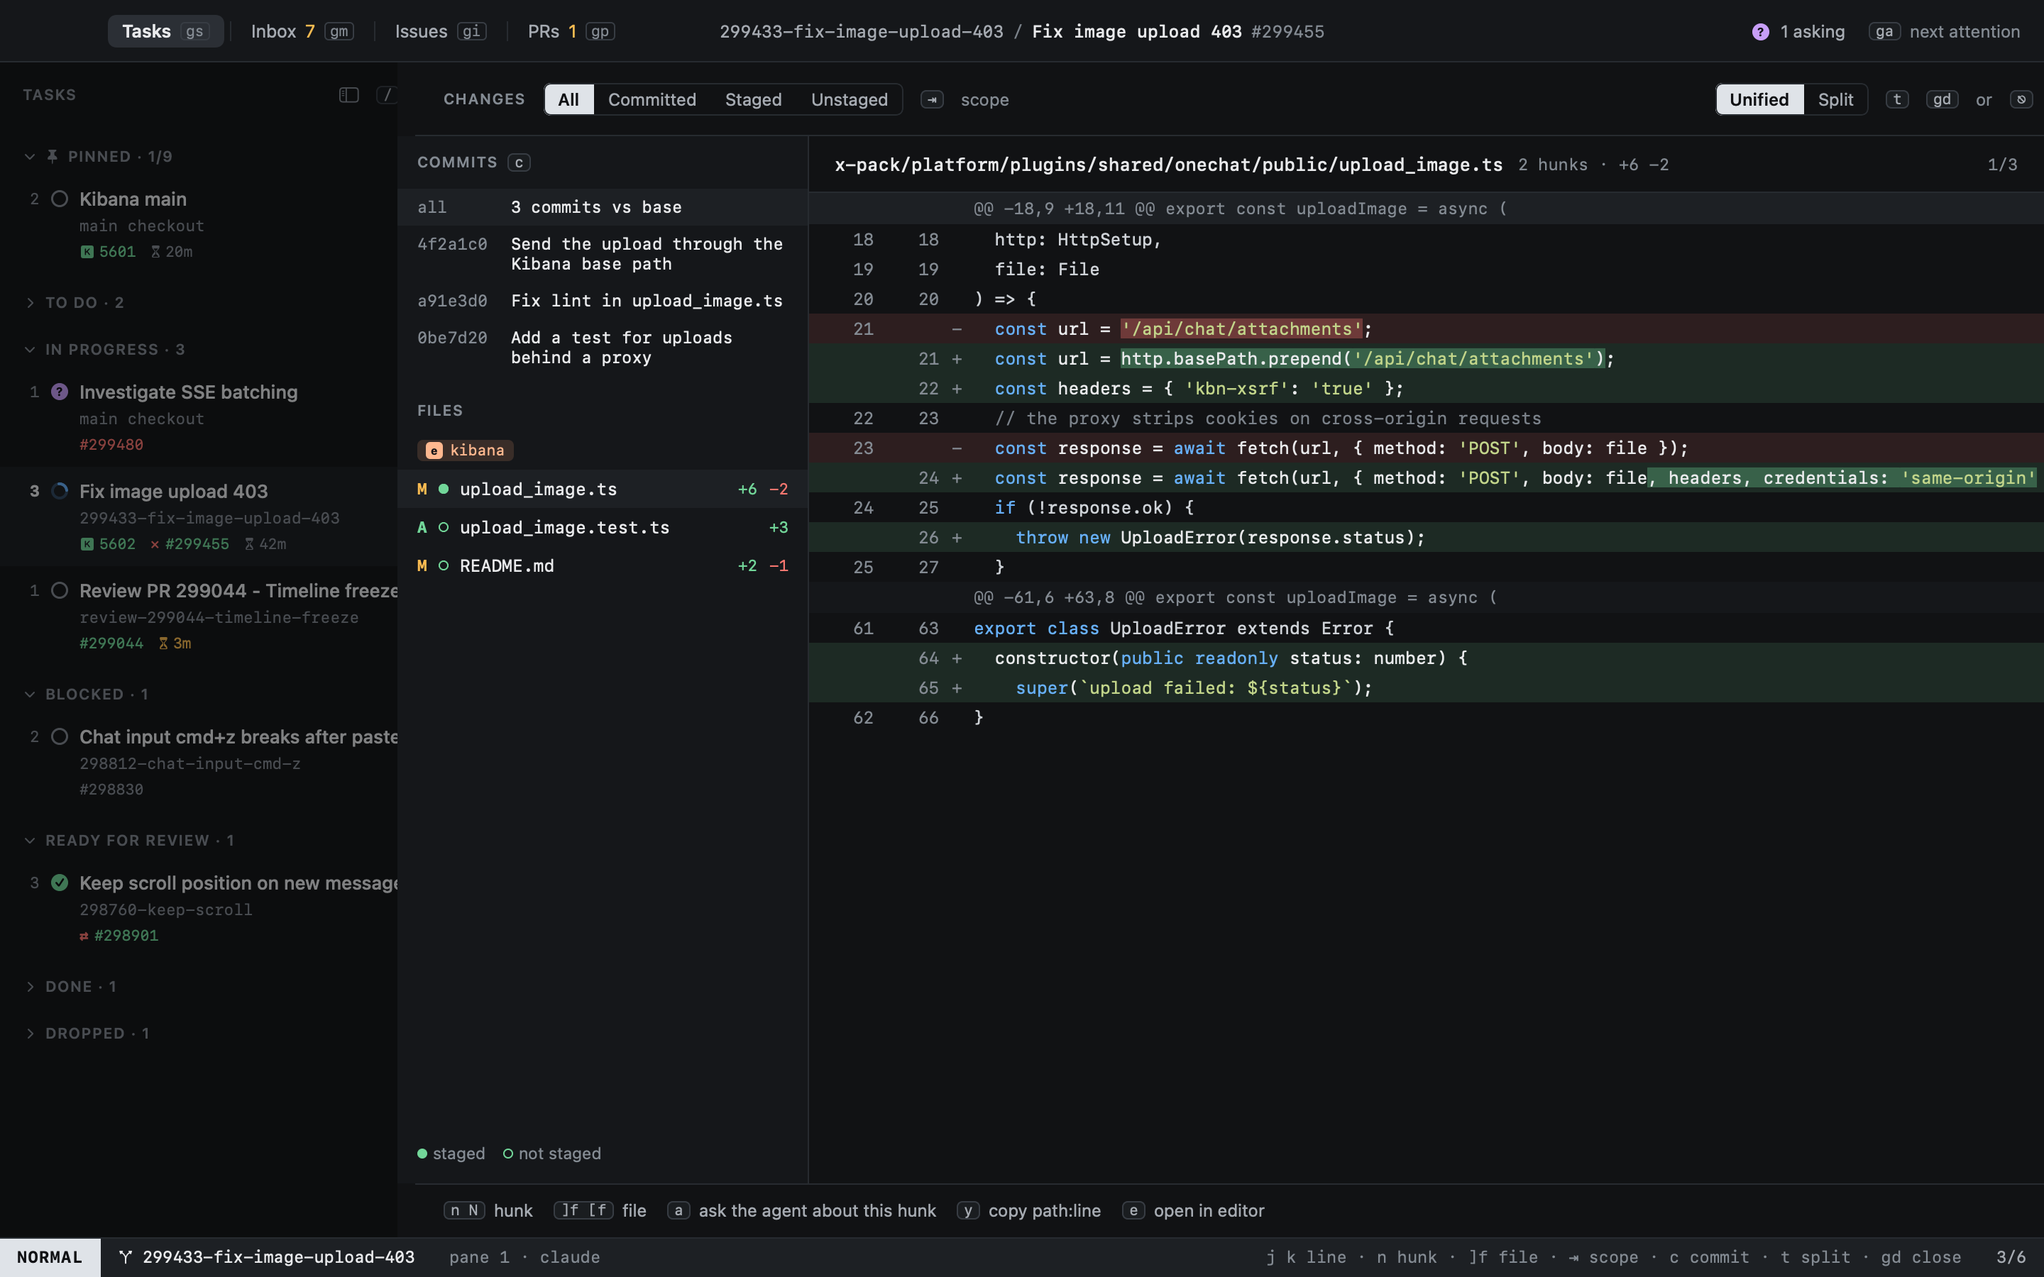
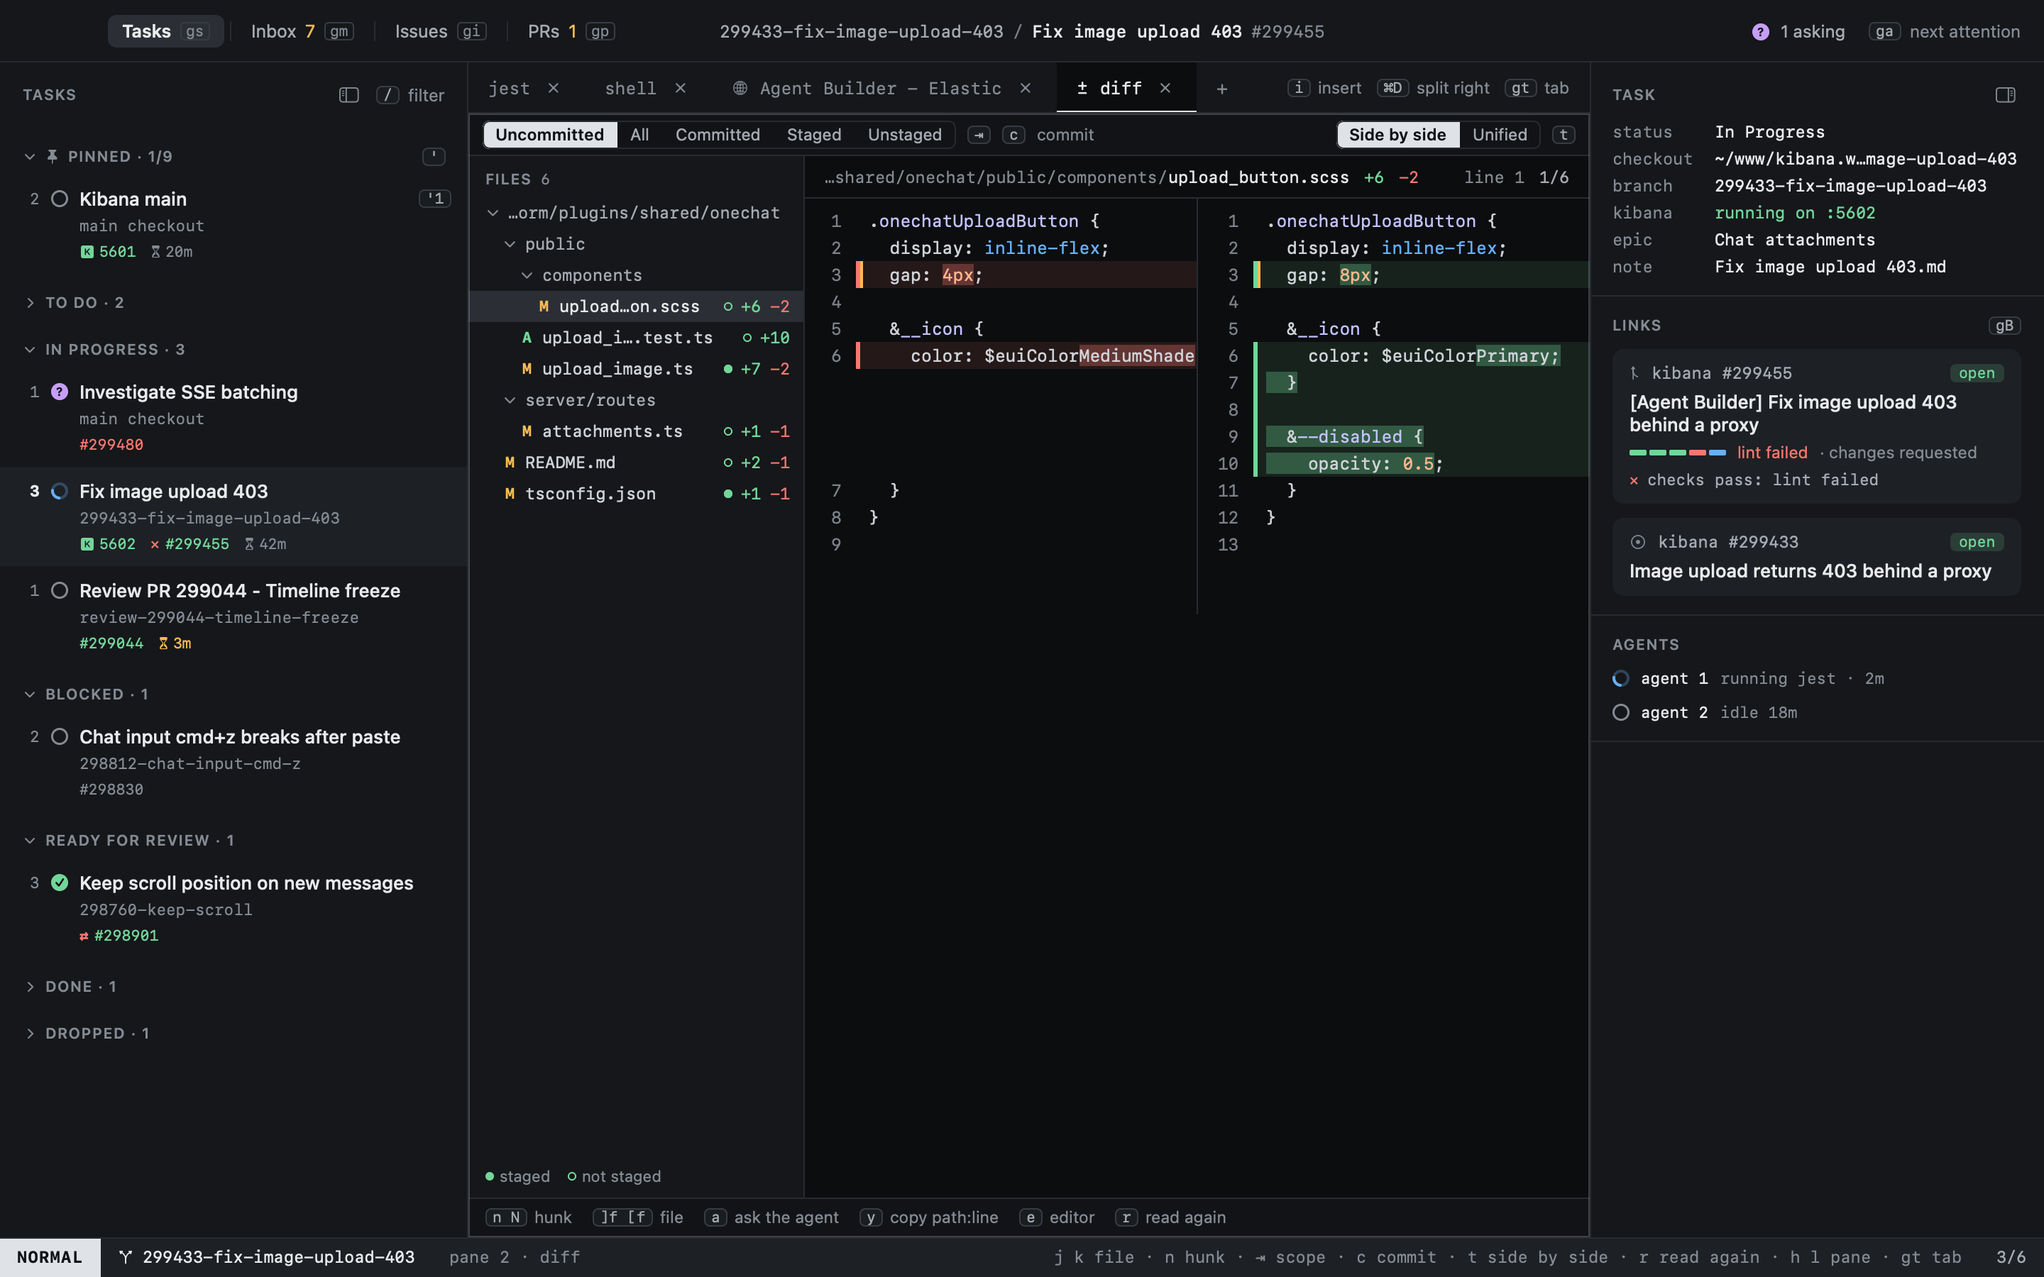
Diff tab, part 3: docs/diff rewritten for the tab (scopes, the file tree, side by side and unified, acting on a line), gd in the keyboard pages and the landing page, the diff shots regenerated

diff --git a/docs/heed-landing.html b/docs/heed-landing.html
@@ -257,12 +257,12 @@ a:focus-visible,summary:focus-visible,.btn:focus-visible{outline:2px solid var(-
 
  <section class="feat rev" id="f2"><div class="ft"><div class="eb mono">New task</div><h2>A title. That is all.</h2><p>Press <kbd>o</kbd> and type a title. heed starts claude on it in the Kibana checkout, in a real terminal, with its own Claude session.</p><ul><li>Pick issues or notifications and press <kbd>s</kbd>: the task starts with them as its first prompt.</li><li>Open more agent tabs in the same task; each one reports and resumes on its own.</li><li>Optional: a shell split beside the agent.</li></ul></div><div class="fm"><figure class="win "><div class="wb"><i style="background:#ff5f57"></i><i style="background:#febc2e"></i><i style="background:#28c840"></i><span>heed</span></div><img src="images/shots/landing/new-task.png" alt="The Start work dialog guessing repo, worktree name and agent." loading="lazy"></figure></div></section>
  <section class="feat" id="f3"><div class="ft"><div class="eb mono">Agents</div><h2>Claude, wired up.</h2><p>Claude reports every state through hooks. Any other command you can type runs too, without a state.</p><ul><li>Profiles, plan and resume arguments, and how the prompt gets delivered.</li><li>Hooks are passed per run: your own Claude config is never edited.</li></ul><div class="ags" style="margin-top:18px"><span class="ag">claude</span><span class="ag">your own command</span></div></div><div class="fm"><figure class="win "><div class="wb"><i style="background:#ff5f57"></i><i style="background:#febc2e"></i><i style="background:#28c840"></i><span>heed</span></div><img src="images/shots/landing/agents.png" alt="Per-agent settings, here for claude." loading="lazy"></figure></div></section>
- <section class="keys" id="f4"><div class="kh"><div class="eb mono">Keyboard first</div><h2>Built like an editor, not an app with shortcuts.</h2><p>NORMAL mode drives heed. INSERT hands every key to the terminal. Counts work, relative line numbers show how far you are jumping, <kbd>f</kbd> puts a hint on everything and <kbd>:</kbd> runs commands. If you have ever <span class="mono">:wq</span>’d your way out of something, you are home.</p></div><div class="modes" role="list"><div class="md" style="--i:0"><b class="mono">NORMAL</b><small>keys drive the app</small></div><div class="md" style="--i:1"><b class="mono">INSERT</b><small>every key goes to the agent</small></div><div class="md" style="--i:2"><b class="mono">VISUAL</b><small>select many, then act</small></div><div class="md" style="--i:3"><b class="mono">COMMAND</b><small>&#58;start, :pr 2841</small></div><div class="md" style="--i:4"><b class="mono">HINT</b><small>f, then jump anywhere</small></div></div><div class="kcs"><div class="kc"><div class="kcap"><kbd>j</kbd><kbd>k</kbd></div><p>Move through tasks. 3j goes three down.</p></div><div class="kc"><div class="kcap"><kbd>ga</kbd></div><p>Jump to the next agent that needs you.</p></div><div class="kc"><div class="kcap"><kbd>o</kbd></div><p>Start work. Type the task, press enter.</p></div><div class="kc"><div class="kcap"><kbd>gd</kbd></div><p>Diff overlay: committed, staged, unstaged.</p></div><div class="kc"><div class="kcap"><kbd>'1</kbd></div><p>Jump straight to pinned task 1.</p></div><div class="kc"><div class="kcap"><kbd>⌃w</kbd><kbd>v</kbd></div><p>Split the pane right. Vim muscle memory works.</p></div><div class="kc"><div class="kcap"><kbd>f</kbd></div><p>Hint badges on every pane, tab and task.</p></div><div class="kc"><div class="kcap"><kbd>:</kbd></div><p>Command line: :start, :pr 2841, :help.</p></div><div class="kc"><div class="kcap"><kbd>?</kbd></div><p>Every key and every agent state, in any mode.</p></div></div><div class="sbar"><b>NORMAL</b><span class="mono">3j</span><span class="sp"></span><span>2 blocked · 1 asking</span><kbd>ga</kbd><i class="cr2"></i></div><div class="kshot"><figure class="win "><div class="wb"><i style="background:#ff5f57"></i><i style="background:#febc2e"></i><i style="background:#28c840"></i><span>heed</span></div><img src="images/shots/landing/keys.png" alt="The help overlay listing modes, keys and agent states." loading="lazy"></figure></div><ul class="kfacts"><li>The mouse works. You just will not need it.</li><li>INSERT passes every key to the terminal except one escape chord, and you choose the chord.</li><li>Press <kbd>?</kbd> anywhere and the overlay highlights the mode you are in.</li></ul></section>
+ <section class="keys" id="f4"><div class="kh"><div class="eb mono">Keyboard first</div><h2>Built like an editor, not an app with shortcuts.</h2><p>NORMAL mode drives heed. INSERT hands every key to the terminal. Counts work, relative line numbers show how far you are jumping, <kbd>f</kbd> puts a hint on everything and <kbd>:</kbd> runs commands. If you have ever <span class="mono">:wq</span>’d your way out of something, you are home.</p></div><div class="modes" role="list"><div class="md" style="--i:0"><b class="mono">NORMAL</b><small>keys drive the app</small></div><div class="md" style="--i:1"><b class="mono">INSERT</b><small>every key goes to the agent</small></div><div class="md" style="--i:2"><b class="mono">VISUAL</b><small>select many, then act</small></div><div class="md" style="--i:3"><b class="mono">COMMAND</b><small>&#58;start, :pr 2841</small></div><div class="md" style="--i:4"><b class="mono">HINT</b><small>f, then jump anywhere</small></div></div><div class="kcs"><div class="kc"><div class="kcap"><kbd>j</kbd><kbd>k</kbd></div><p>Move through tasks. 3j goes three down.</p></div><div class="kc"><div class="kcap"><kbd>ga</kbd></div><p>Jump to the next agent that needs you.</p></div><div class="kc"><div class="kcap"><kbd>o</kbd></div><p>Start work. Type the task, press enter.</p></div><div class="kc"><div class="kcap"><kbd>gd</kbd></div><p>Diff tab: what changed, before you commit it.</p></div><div class="kc"><div class="kcap"><kbd>'1</kbd></div><p>Jump straight to pinned task 1.</p></div><div class="kc"><div class="kcap"><kbd>⌃w</kbd><kbd>v</kbd></div><p>Split the pane right. Vim muscle memory works.</p></div><div class="kc"><div class="kcap"><kbd>f</kbd></div><p>Hint badges on every pane, tab and task.</p></div><div class="kc"><div class="kcap"><kbd>:</kbd></div><p>Command line: :start, :pr 2841, :help.</p></div><div class="kc"><div class="kcap"><kbd>?</kbd></div><p>Every key and every agent state, in any mode.</p></div></div><div class="sbar"><b>NORMAL</b><span class="mono">3j</span><span class="sp"></span><span>2 blocked · 1 asking</span><kbd>ga</kbd><i class="cr2"></i></div><div class="kshot"><figure class="win "><div class="wb"><i style="background:#ff5f57"></i><i style="background:#febc2e"></i><i style="background:#28c840"></i><span>heed</span></div><img src="images/shots/landing/keys.png" alt="The help overlay listing modes, keys and agent states." loading="lazy"></figure></div><ul class="kfacts"><li>The mouse works. You just will not need it.</li><li>INSERT passes every key to the terminal except one escape chord, and you choose the chord.</li><li>Press <kbd>?</kbd> anywhere and the overlay highlights the mode you are in.</li></ul></section>
  <section class="feat" id="green"><div class="ft"><div class="eb mono">PRs</div><h2>See what each PR needs.</h2><p>heed follows the PR each task opens: review threads, failing checks, merge conflicts. Its state shows on the task’s row, and <kbd>go</kbd> opens it over the task: each thread with the code it is on, each failing check, and what holds the PR back from green. You decide what the agent fixes.</p><ul><li>A green checklist per PR: open, ready, no conflicts, required checks passed, threads resolved, no changes requested. heed names the rule that holds it back.</li><li>Read-only: heed changes nothing on your PRs and never types into your agent on its own.</li><li><kbd>S</kbd> makes a new task from a PR, with its open threads and failing checks as the first prompt.</li></ul></div><div class="fm"><figure class="win "><div class="wb"><i style="background:#ff5f57"></i><i style="background:#febc2e"></i><i style="background:#28c840"></i><span>heed</span></div><img src="images/shots/landing/pr.png" alt="The PR overlay: review threads with their code, a failing check, and the PR’s green checklist." loading="lazy"></figure></div></section>
   <section class="feat" id="f7"><div class="ft"><div class="eb mono">Resume</div><h2>Pick up where you left off.</h2><p>Quit heed, restart the Mac, come back tomorrow. Tasks reopen in the same tabs and splits, and each agent tab comes back with its own Claude session (<kbd>--resume</kbd>).</p><ul><li>If Claude has forgotten a session, that agent starts fresh from the task note.</li><li>Agents that were mid-turn get a “Continue where you left off.” nudge, yours to change.</li><li>Running processes are not restored, and heed says so.</li></ul></div><div class="fm"><figure class="win "><div class="wb"><i style="background:#ff5f57"></i><i style="background:#febc2e"></i><i style="background:#28c840"></i><span>heed</span></div><img src="images/shots/landing/resume.png" alt="Resume dialog listing tasks with the resume line for each agent tab." loading="lazy"></figure></div></section>
 
  <div class="also">
-  <div class="al"><figure class="win "><div class="wb"><i style="background:#ff5f57"></i><i style="background:#febc2e"></i><i style="background:#28c840"></i><span>heed</span></div><img src="images/shots/landing/diff.png" alt="Diff overlay over a task." loading="lazy"></figure><h3>Read the diff, stay put</h3><p><kbd>gd</kbd> opens committed, staged or unstaged changes over your task. Per file, per commit, or all of it. Ask the agent about a hunk with one key.</p></div>
+  <div class="al"><figure class="win "><div class="wb"><i style="background:#ff5f57"></i><i style="background:#febc2e"></i><i style="background:#28c840"></i><span>heed</span></div><img src="images/shots/landing/diff.png" alt="The Diff tab: the changed files as a tree, one file side by side with its unchanged stretches folded." loading="lazy"></figure><h3>Read the diff, stay put</h3><p><kbd>gd</kbd> opens a Diff tab next to the agent: uncommitted, staged or unstaged changes, per commit, or all of it, each file whole, side by side or unified. It follows the agent as it works. Ask the agent about a line with one key.</p></div>
   <div class="al"><figure class="win "><div class="wb"><i style="background:#ff5f57"></i><i style="background:#febc2e"></i><i style="background:#28c840"></i><span>heed</span></div><img src="images/shots/landing/inbox.png" alt="Notifications inbox with multi-select." loading="lazy"></figure><h3>Notifications, one task</h3><p>Pick several issues or notifications, press <kbd>s</kbd>, and they become one task with one first prompt. Read them in the app first.</p></div>
   <div class="al"><div class="ags" style="margin:0"><span class="ag">claude</span><span class="ag">your own command</span></div><h3>Pin the ones that matter</h3><p>Up to nine pinned tasks, one key each: <kbd>'1</kbd> … <kbd>'9</kbd>. Kibana main is a good first pin.</p></div>
  </div>

diff --git a/Sources/HeedApp/Shots/Shots.swift b/Sources/HeedApp/Shots/Shots.swift
@@ -132,7 +132,7 @@ enum Shots {
         Shot(id: "diff/beside", keys: "2jgd", highlight: [.diffTab]),
         Shot(id: "diff/unified", keys: "2jgd<C-w>zt"),
         Shot(id: "diff/typescript", keys: "2jgd<C-w>zjj"),
-        Shot(id: "diff/files", size: short, keys: "2jgd<C-w>z", crop: .diffFiles, cropPadding: 0),
+        Shot(id: "diff/files", keys: "2jgd<C-w>z", crop: .diffFiles, cropPadding: 0),
     ]
 
     static let keyboard: [Shot] = [

diff --git a/docs/diff/index.md b/docs/diff/index.md
@@ -1,22 +1,55 @@
 ---
 navigation_title: Diff
-description: "The diff overlay: what the agent changed, by scope, file and hunk."
+description: "The Diff tab: what the agent changed, file by file, before you commit it."
 ---
 
 # Diff
 
-`gd` opens the diff overlay for the task's checkout: what changed, file by file, hunk by hunk, with word-level
-highlights.
+`gd` opens the task's **Diff tab** in its work pane, beside the agent, or goes to it when it is open. It shows what
+changed in the task's checkout: the changed files as a folder tree on the left, the file you are on on the right, whole,
+with the unchanged stretches folded.
 
-![The diff overlay: files on the left, the hunks of the current file on the right](../images/shots/diff/overlay.png)
+![The Diff tab: the changed files as a tree, the file side by side with its unchanged stretches folded](../images/shots/diff/tab.png)
+
+The tab stays with the task, like its other tabs, and is there again after a relaunch. It reads the diff when you
+show it, and again when the task's agent finishes a turn, so it follows what the agent does; you stay on the same file
+and at the same place in it. `r` reads it again now.
+
+![The Diff tab next to the agent's pane](../images/shots/diff/beside.png)
+
+## Scopes
+
+| Scope | Compares |
+|---|---|
+| **Uncommitted** | What is not committed yet, staged or not, against `HEAD`: what your next commit could hold. New files count. The default. |
+| **All** | Everything since the branch left `main`: its commits and what is not committed yet |
+| **Committed** | The branch's commits, against where it left `main` |
+| **Staged** | The index against `HEAD` |
+| **Unstaged** | The working tree against the index. New files count. |
+
+`⇥` and `⇧⇥` go through them; `c` shows one commit at a time, newest first, then goes back to Uncommitted. A click on a
+scope works too.
+
+## Files
+
+The tree lists folders first, then files, each by name. A folder with nothing but one folder in it shares its row
+(`x-pack/platform/plugins`), so deep paths stay short; a click folds or opens it. Each file has its status (`M`
+modified, `A` added, `D` deleted, `R` renamed), a dot that is filled when the file is staged, and the lines added and
+removed.
+
+![The file tree](../images/shots/diff/files.png)
 
 | Key | |
 |---|---|
-| `⇥` / `⇧⇥` | Scope: **all**, **committed**, **staged**, **unstaged** |
-| `c` | One commit at a time (cycles through the branch's commits) |
-| `]f` / `[f` | Next / previous file |
-| `n` / `N` | Next / previous hunk |
-| `j` / `k` | Move by line |
-| `gd` or `⎋` | Close |
+| `j` / `k`, `]f` / `[f` | Next / previous file |
+| `n` / `N` | Next / previous hunk; past the last one, the next file's first |
+| `⌃d` / `⌃u` | Half a page down / up |
+| `⇥` / `⇧⇥` | Next / previous scope |
+| `c` | One commit (cycles) |
+| `t` | Side by side or unified |
+| `r` | Read the diff again |
 
-See [Reviewing changes](reviewing.md) for the split view and acting on a hunk.
+These keys work while the Diff tab has the keys (NORMAL); `h` `l`, `gt` and the other pane and tab keys work as
+anywhere. A binary file, or one over 1 MB or 20,000 lines, gets a message instead of a diff; `e` still opens it.
+
+See [Reviewing changes](reviewing.md) for side by side and unified, and acting on a line.

diff --git a/docs/diff/reviewing.md b/docs/diff/reviewing.md
@@ -1,19 +1,30 @@
 ---
-description: The split view, and asking the agent about a hunk.
+description: Side by side or unified, and asking the agent about a line.
 ---
 
 # Reviewing changes
 
-`t` switches between the unified and the split view.
+The Diff tab shows the whole file, with the old version on the left and the new one on the right. Unchanged stretches
+are folded to a line saying how many lines they hide; a click opens one. Changed words within a line are highlighted,
+so a one-character fix stands out in a long line, and TypeScript, JavaScript, JSON, CSS and SCSS, Markdown, YAML and
+HTML are highlighted by language.
 
-![The split view: old on the left, new on the right](../images/shots/diff/split.png)
+![A TypeScript file side by side, with two folded stretches](../images/shots/diff/typescript.png)
 
-From the line under the cursor:
+`t` switches to unified, with the removed lines above the added ones in one column, and back. Heed remembers the choice
+for every Diff tab.
+
+![The same file unified](../images/shots/diff/unified.png)
+
+The mouse scrolls, and you can select and copy text (`⌘C`). The diff is read only.
+
+## Acting on a line
+
+The line you act on is the one you clicked, else the hunk `n` and `N` took you to, else the hunk at the top of the
+view. The header shows it.
 
 | Key | |
 |---|---|
-| `a` | Ask the agent about this hunk: its location and lines go to the agent's pane |
-| `e` | Open the file at that line in your editor |
+| `a` | Ask the agent: `About <path> around line <n> (the hunk in my diff): ` is typed into the agent's pane, unsent, and you are in INSERT there to finish the question |
 | `y` | Copy `path:line` |
-
-Changed words within a line are highlighted, so a one-character fix stands out in a long line.
+| `e` | Open the file in the app that opens it |

diff --git a/docs/keyboard/index.md b/docs/keyboard/index.md
@@ -27,7 +27,7 @@ Single keys are kept for what you do many times an hour; anything rarer is two k
 | `⌃d` `⌃u`, `{` `}` | Half a page; the previous or next group (an open sidebar section, a repo) |
 | `↩` `o` `i` `v` `m` | Open, new task, type into the agent, select, pin |
 | `r` | Refresh the view you are in |
-| `g…` | Go somewhere: views (`gm` Inbox), overlays (`go`, `gd`), tabs (`gt`), a link as a web page (`gB`), the repo on GitHub (`gR`) |
+| `g…` | Go somewhere: views (`gm` Inbox), overlays (`go`), tabs (`gt`, `gd` the Diff tab), a link as a web page (`gB`), the repo on GitHub (`gR`) |
 | `z…` | Toggles: `zi` inspector, `zs` sidebar |
 | `'…` | Jump to a pin (`'1`–`'9`), or back (`''`) |
 | `]…` `[…` | Next or previous of a kind: `]f` file |

diff --git a/docs/keyboard/customizing.md b/docs/keyboard/customizing.md
@@ -20,7 +20,7 @@ global_activate = "<C-M-h>"        # brings Heed forward from any app
 ```
 
 - **Per mode**: `[keys.normal]`, `[keys.visual]`, `[keys.insert]`, `[keys.command]`, `[keys.hint]`.
-- **Per view**: `[keys.inbox]`, `[keys.issues]`, `[keys.prs]`, `[keys.diff]`, `[keys.pr]`, `[keys.issue]`. View keys apply in NORMAL in that view, before NORMAL's own.
+- **Per view**: `[keys.inbox]`, `[keys.issues]`, `[keys.prs]`, `[keys.diff]` (a focused Diff tab), `[keys.pr]`, `[keys.issue]`. View keys apply in NORMAL in that view, before NORMAL's own.
 - **Notation**: `gg`, `<C-w>v` (⌃w then v), `<D-/>` (⌘/), `<M-x>` (⌥x), `<S-Tab>`, `<CR>`, `<Esc>`, `<Space>`.
 
 The [key reference](reference.md) lists every command name; `:` completes them.
